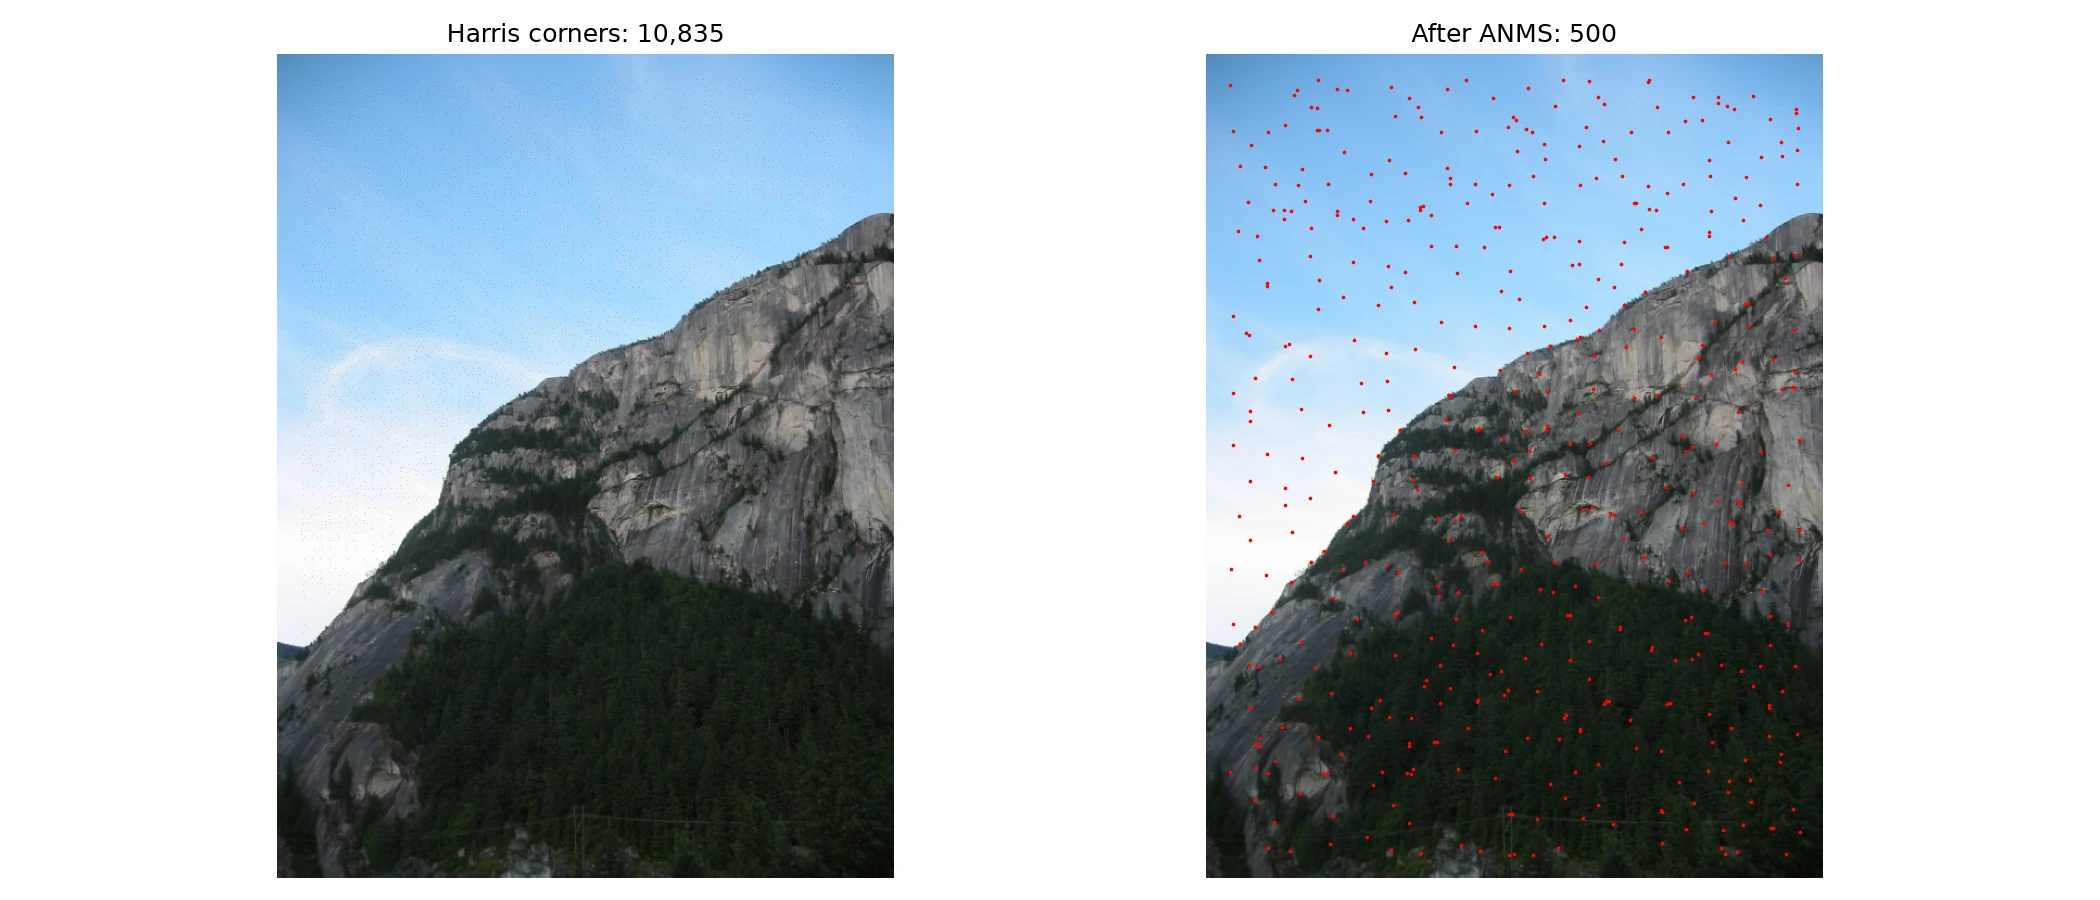
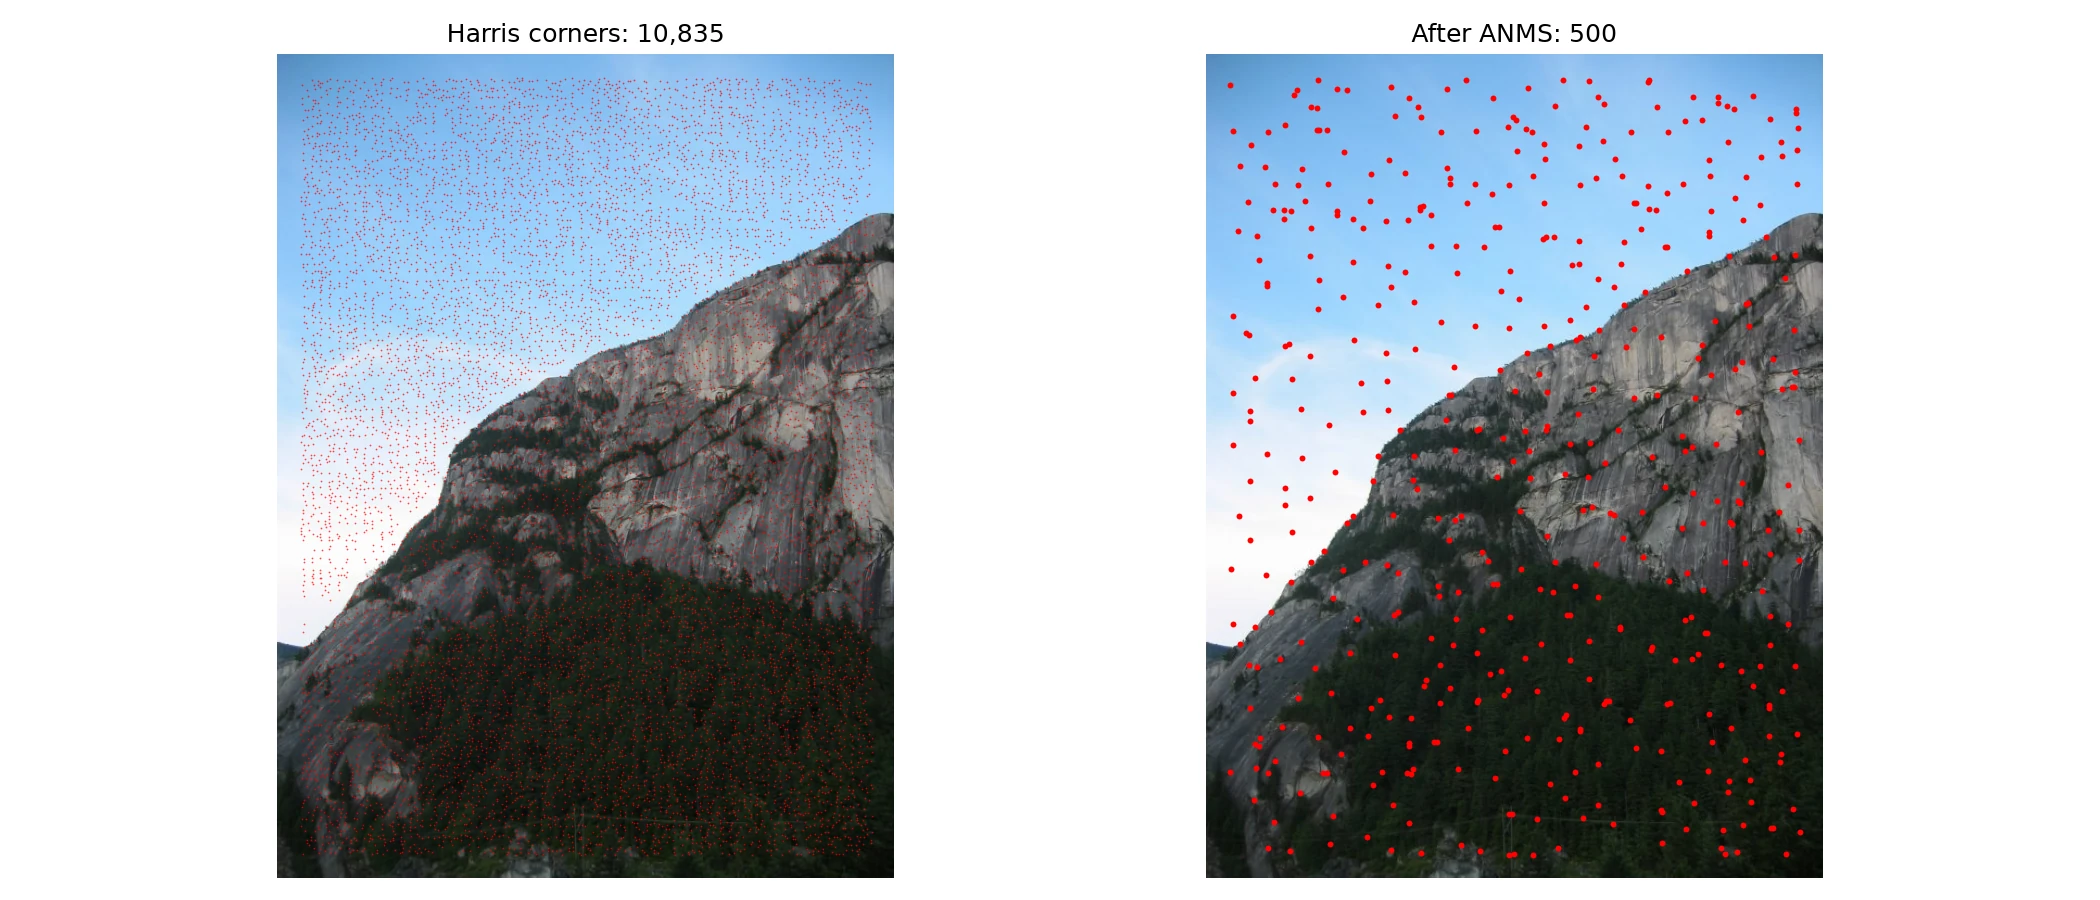
Clarify Harris detections and improve mountain corner figures

diff --git a/app/data/cs180-project4-partb.ts b/app/data/cs180-project4-partb.ts
@@ -21,6 +21,7 @@ export const cs180Project4PartB: Cs180Part[] = [
     title: 'b.1 harris corners and adaptive non-maximal suppression',
     prose: [
       'i applied harris corner detection to grayscale images at their original resolution, using a single detection scale and a 20-pixel boundary exclusion. i selected local maxima of the harris response as candidate corners. the left panels show these candidates, including many points clustered around textured surfaces and repeated architectural details.',
+      'the glade and doe inputs each contain about 24.5 million pixels. with local maxima only one pixel apart and no explicit response-strength cutoff, fine texture and small intensity variations produce hundreds of thousands of candidates. weak maxima can appear even in the sky, and ANMS can retain some of them because it favors points far from stronger neighbors. the mountain images contain about 10,800 candidates each. the ratio test and RANSAC later filter the matches produced from these points.',
       'for each candidate, i compute the distance to the nearest corner whose response is sufficiently stronger. specifically, a candidate j can suppress candidate i when fᵢ < 0.9 fⱼ. a point with no sufficiently stronger neighbor gets an infinite radius. i keep the 500 points with the largest suppression radii. using squared distances preserves the same ordering and avoids taking square roots. the right panels show the selected points.',
     ],
     equations: ['rᵢ² = minⱼ ‖pᵢ − pⱼ‖², over j satisfying fᵢ < 0.9 fⱼ'],
@@ -52,7 +53,7 @@ export const cs180Project4PartB: Cs180Part[] = [
   {
     title: 'b.3 matching feature descriptors',
     prose: [
-      'for each descriptor in image 1, i compute its sum of squared differences from every descriptor in image 2 and sort the distances. i accept the closest candidate when its squared distance divided by the second-closest squared distance is below 0.7. this tests whether the best match is clearly better than its nearest competitor. on ordinary euclidean distances, this threshold is equivalent to approximately 0.837.',
+      'for each descriptor in image 1, i compute its sum of squared differences from every descriptor in image 2 and sort the distances. i accept the closest candidate when its squared distance divided by the second-closest squared distance is below 0.7. this tests whether the best match is clearly better than its nearest competitor. on ordinary euclidean distances, this threshold is equivalent to approximately 0.837. as professor efros said in class, “If you’re deciding between two hard choices and can’t decide because it’s too close, you probably should choose neither.”',
       'the ratio test leaves 33 matches for glade, 69 for doe, and 90 for the mountains. some incorrect pairs remain, especially among repeated windows, tables, and vegetation. RANSAC filters these using agreement with a common geometric transformation.',
     ],
     equations: ['SSD(a, b) = Σₖ (aₖ − bₖ)²', 'accept when SSD₁ / SSD₂ < 0.7'],
